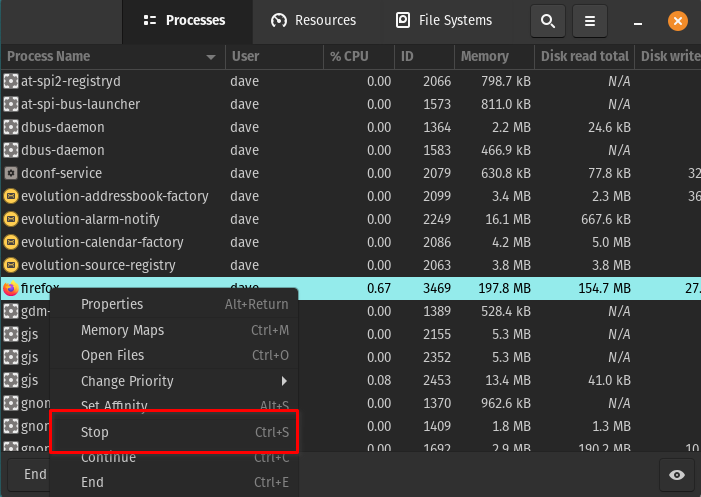
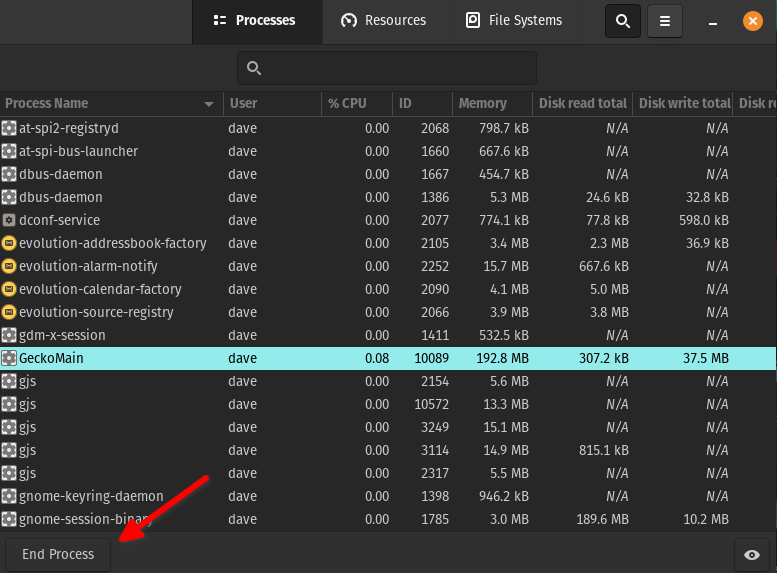
new image, end process vs stop in gui

diff --git a/content/ending-frozen-applications.md b/content/ending-frozen-applications.md
@@ -19,7 +19,7 @@ section:
 
 ## Closing Frozen Processes, Applications, and Desktops
 
-Linux offers many methods to stop hanging or frozen processes. The System Monitor application provides a GUI with features similar to the Windows Task Manager, while the `kill` command can end single or multiple processes from the Terminal.
+Linux offers many methods to stop hanging or frozen processes. The System Monitor application provides a GUI with features similar to the Windows Task Manager, running xkill allows users to close programs with a mouse click, and the `kill` command can end single or multiple processes from the Terminal.
 
 >Caution: Suddenly terminating processes can result in unwanted data loss or system stability issues.
 
@@ -31,8 +31,8 @@ The System Monitor application comes prepackaged in Pop!\_OS. This tool provides
 
 1. Press <kbd>Super</kbd> and type `system monitor`, then hit Enter.
 2. Locate frozen and hanging applications.
+3. Select the application and click End Process.
    ![gnome-system-monitor](/images/ending-frozen-applications/gnome-system-monitor.png)
-3. Right click the application and click Stop in the dropdown menu.
 
 ### Using xkill (GUI)
 
